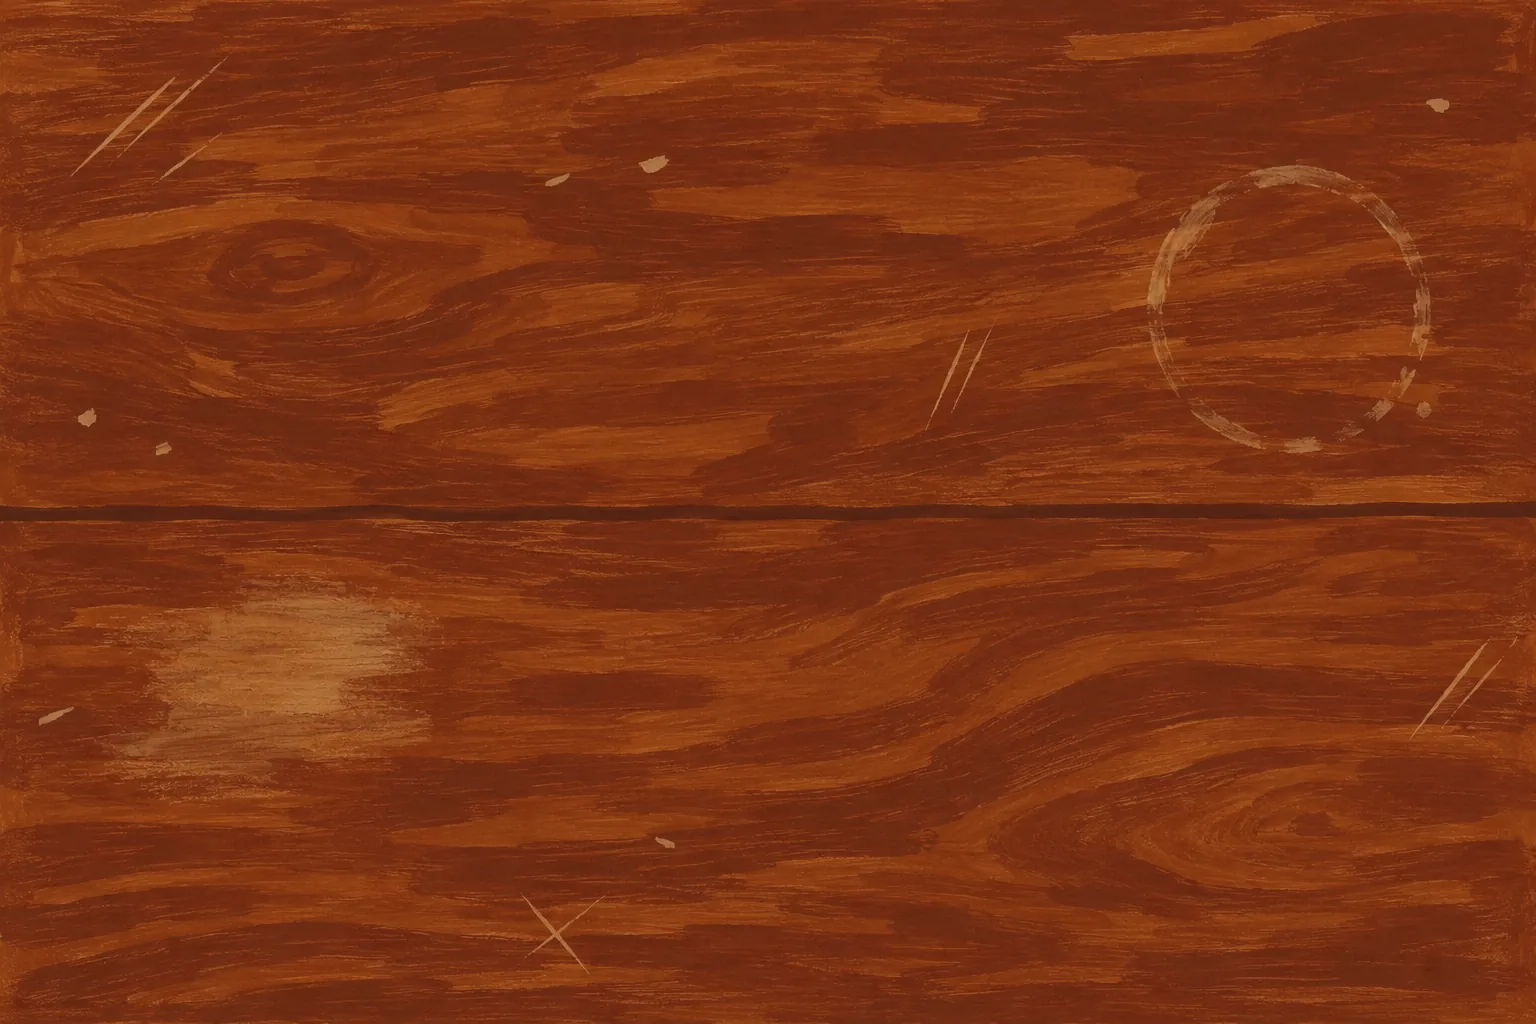
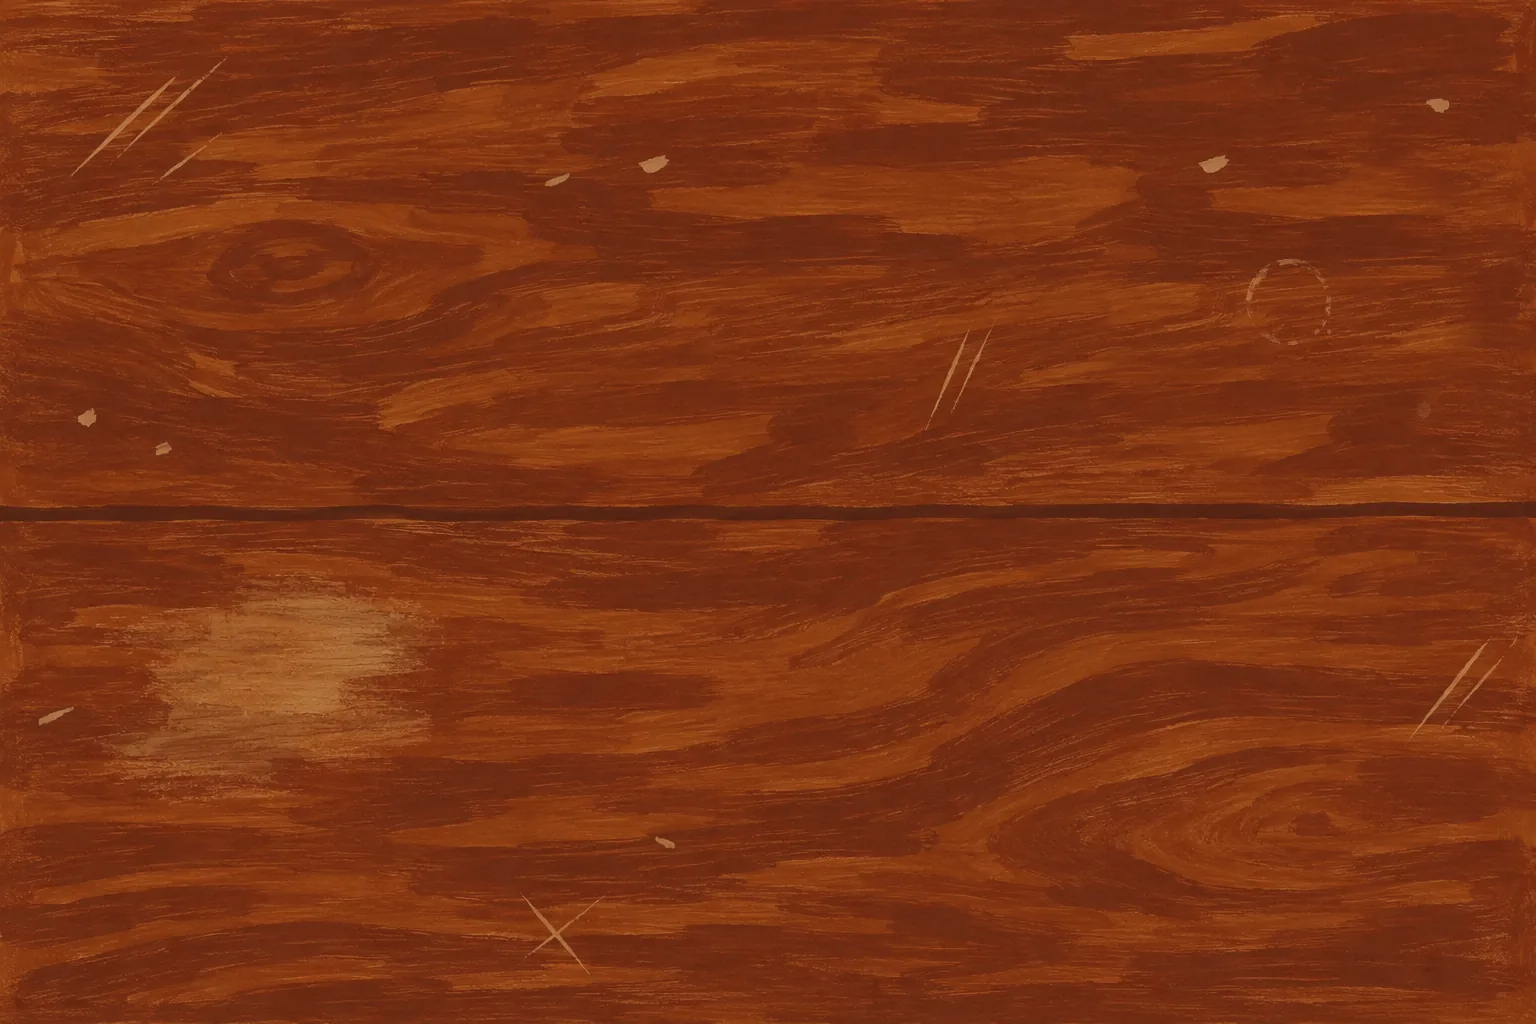
Long horizontal cutting mat, mat-length ruler, smaller coffee ring
New panoramic mat (shown at 2.6:1, upright on phones), ruler straightened and
stretched to ~90% of the mat's length, table's cup ring shrunk to 30% so it
reads smaller than the iced coffee; props re-laid out on the mat.

Claude-Session: https://claude.ai/code/session_01LGMYZrrSTaEhzWPwz3UXtF

Changed region(s): [[0.7188, 0.1562, 0.9688, 0.4062], [0.7812, 0.4062, 0.875, 0.4375]]

diff --git a/index.html b/index.html
@@ -299,13 +299,16 @@ dl.cred dd{margin:0;font-size:calc(var(--u)*2.2)}
 .desk-scene{position:fixed;inset:0;z-index:950;pointer-events:none;overflow:hidden;transition:opacity .5s}
 .desk-scene[hidden]{display:none}
 .desk-scene.hiding{opacity:0}
-.desk-scene{background:#7A4A2A url(desk/table.webp) center/cover no-repeat}
+.desk-scene{background:#7A4A2A url(desk/table.webp) center/cover no-repeat;--matw:min(94vw,236vh);--math:calc(var(--matw) / 2.6)}
 .desk-hint{position:absolute;top:max(18px,env(safe-area-inset-top,0px));left:50%;transform:translateX(-50%) rotate(-1.5deg);
   font-family:var(--mono);font-weight:700;font-size:11px;letter-spacing:.12em;text-transform:uppercase;color:var(--ink);
   background:var(--yellow);border-radius:999px;
   padding:8px 16px;white-space:nowrap;z-index:30;pointer-events:none}
 .desk-fixed{position:absolute;pointer-events:none}
-.desk-fixed.mat{width:var(--w);transform:translate(-50%,-50%) rotate(var(--r,0deg));filter:drop-shadow(8px 10px 0 rgba(30,14,6,.35))}
+.desk-fixed.mat{width:var(--matw);height:var(--math);transform:translate(-50%,-50%) rotate(var(--r,0deg));filter:drop-shadow(8px 10px 0 rgba(30,14,6,.35))}
+.desk-scene .desk-fixed.mat img{width:100%;height:100%;object-fit:fill}
+.desk-item.ruler{--r:-1deg;width:calc(var(--matw) * .9);height:calc(var(--math) * .14);left:calc(50% - var(--matw) * .45);top:calc(50% + var(--math) * .5 - var(--math) * .2)}
+.desk-scene .desk-item.ruler img{height:100%;object-fit:fill}
 .desk-fixed img,.desk-item img{display:block;width:100%;height:auto;pointer-events:none;user-select:none;-webkit-user-drag:none}
 .desk-item{position:absolute;left:var(--x);top:var(--y);width:var(--w);transform:translate(var(--dx,0px),var(--dy,0px)) rotate(var(--r,0deg));
   cursor:grab;pointer-events:auto;touch-action:none;filter:drop-shadow(6px 8px 0 rgba(30,14,6,.32));
@@ -313,7 +316,9 @@ dl.cred dd{margin:0;font-size:calc(var(--u)*2.2)}
 .desk-item.dragging{cursor:grabbing;filter:drop-shadow(12px 18px 0 rgba(30,14,6,.28))}
 @media not all and (min-width:900px) and (min-height:560px){
   .desk-item{left:var(--mx,var(--x));top:var(--my,var(--y));width:calc(var(--w) * .78)}
-  .desk-fixed.mat{width:min(88vh,136vw);transform:translate(-50%,-50%) rotate(90deg)}
+  .desk-scene{--matw:min(88vh,234vw)}
+  .desk-fixed.mat{transform:translate(-50%,-50%) rotate(90deg)}
+  .desk-scene .desk-item.ruler{--r:90deg;width:calc(var(--matw) * .9);left:calc(50% - var(--matw) * .45);top:calc(50% - var(--math) * .07 - 0px);margin-left:calc(var(--math) * -.33)}
   .desk-hint{font-size:9.5px;padding:6px 12px;white-space:normal;text-align:center;width:80vw}
 }
 </style>
@@ -626,21 +631,21 @@ dl.cred dd{margin:0;font-size:calc(var(--u)*2.2)}
 
 <div class="desk-scene" id="deskScene">
   <p class="desk-hint">My desk, mid-recipe &mdash; move things aside, then open the book</p>
-  <div class="desk-fixed mat" style="left:50%;top:50%;--w:min(94vw,137vh);--r:-1deg" aria-hidden="true"><img src="desk/mat.webp" alt="" draggable="false"></div>
-  <div class="desk-item" style="--x:18%;--y:22%;--mx:8%;--my:33%;--w:clamp(110px,12vw,170px);--r:-11deg;z-index:2" aria-hidden="true"><img src="desk/paper.webp" alt="" draggable="false"></div>
-  <div class="desk-item" style="--x:8%;--y:42%;--mx:5%;--my:52%;--w:clamp(110px,12vw,170px);--r:-9deg;z-index:3" aria-hidden="true"><img src="desk/sketchbook.webp" alt="" draggable="false"></div>
-  <div class="desk-item" style="--x:60%;--y:55%;--mx:45%;--my:62%;--w:clamp(130px,15vw,200px);--r:5deg;z-index:4" aria-hidden="true"><img src="desk/pad.webp" alt="" draggable="false"></div>
-  <div class="desk-item" style="--x:17%;--y:60%;--mx:8%;--my:66%;--w:clamp(140px,16vw,220px);--r:0deg;z-index:5" aria-hidden="true"><img src="desk/ruler.webp" alt="" draggable="false"></div>
-  <div class="desk-item" data-book="1" style="--x:41%;--y:30%;--mx:30%;--my:40%;--w:clamp(170px,19vw,250px);--r:4deg;z-index:6" role="button" tabindex="0" aria-label="Open the recipe book"><img src="desk/book.webp" alt="" draggable="false"></div>
-  <div class="desk-item" style="--x:75%;--y:48%;--mx:70%;--my:56%;--w:clamp(70px,7vw,100px);--r:70deg;z-index:7" aria-hidden="true"><img src="desk/pencils.webp" alt="" draggable="false"></div>
-  <div class="desk-item" style="--x:46%;--y:45%;--mx:46%;--my:50%;--w:clamp(90px,10vw,140px);--r:8deg;z-index:8" aria-hidden="true"><img src="desk/knife.webp" alt="" draggable="false"></div>
-  <div class="desk-item" style="--x:82%;--y:66%;--mx:74%;--my:70%;--w:clamp(80px,8vw,115px);--r:0deg;z-index:9" aria-hidden="true"><img src="desk/glass.webp" alt="" draggable="false"></div>
-  <div class="desk-item" style="--x:81%;--y:33%;--mx:72%;--my:43%;--w:clamp(90px,9vw,125px);--r:-6deg;z-index:10" aria-hidden="true"><img src="desk/coffee.webp" alt="" draggable="false"></div>
-  <div class="desk-item" style="--x:74%;--y:8%;--mx:68%;--my:19%;--w:clamp(130px,13vw,180px);--r:0deg;z-index:11" aria-hidden="true"><img src="desk/cereal.webp" alt="" draggable="false"></div>
-  <div class="desk-item" style="--x:52%;--y:8%;--mx:50%;--my:19%;--w:clamp(80px,8vw,115px);--r:-20deg;z-index:12" aria-hidden="true"><img src="desk/earphones.webp" alt="" draggable="false"></div>
-  <div class="desk-item" style="--x:8%;--y:8%;--mx:5%;--my:19%;--w:clamp(130px,14vw,190px);--r:-7deg;z-index:13" aria-hidden="true"><img src="desk/ipad.webp" alt="" draggable="false"></div>
-  <div class="desk-item" style="--x:61%;--y:15%;--mx:56%;--my:30%;--w:clamp(120px,12vw,170px);--r:9deg;z-index:14" aria-hidden="true"><img src="desk/camera.webp" alt="" draggable="false"></div>
-  <div class="desk-item" style="--x:29%;--y:10%;--mx:33%;--my:20%;--w:clamp(65px,6.5vw,95px);--r:13deg;z-index:15" aria-hidden="true"><img src="desk/phone.webp" alt="" draggable="false"></div>
+  <div class="desk-fixed mat" style="left:50%;top:50%;--r:-1deg" aria-hidden="true"><img src="desk/mat.webp" alt="" draggable="false"></div>
+  <div class="desk-item" style="--x:17%;--y:42%;--mx:34%;--my:30%;--w:clamp(95px,10vw,145px);--r:-11deg;z-index:2" aria-hidden="true"><img src="desk/paper.webp" alt="" draggable="false"></div>
+  <div class="desk-item" style="--x:6%;--y:46%;--mx:34%;--my:73%;--w:clamp(95px,10vw,145px);--r:-9deg;z-index:3" aria-hidden="true"><img src="desk/sketchbook.webp" alt="" draggable="false"></div>
+  <div class="desk-item" style="--x:57%;--y:42%;--mx:52%;--my:58%;--w:clamp(110px,11vw,160px);--r:5deg;z-index:4" aria-hidden="true"><img src="desk/pad.webp" alt="" draggable="false"></div>
+  <div class="desk-item ruler" style="z-index:5" aria-hidden="true"><img src="desk/ruler.webp" alt="" draggable="false"></div>
+  <div class="desk-item" data-book="1" style="--x:38%;--y:25%;--mx:34%;--my:40%;--w:clamp(150px,15vw,220px);--r:4deg;z-index:6" role="button" tabindex="0" aria-label="Open the recipe book"><img src="desk/book.webp" alt="" draggable="false"></div>
+  <div class="desk-item" style="--x:72%;--y:52%;--mx:66%;--my:48%;--w:clamp(60px,6vw,90px);--r:70deg;z-index:7" aria-hidden="true"><img src="desk/pencils.webp" alt="" draggable="false"></div>
+  <div class="desk-item" style="--x:44%;--y:42%;--mx:46%;--my:53%;--w:clamp(80px,8vw,120px);--r:8deg;z-index:8" aria-hidden="true"><img src="desk/knife.webp" alt="" draggable="false"></div>
+  <div class="desk-item" style="--x:85%;--y:50%;--mx:72%;--my:84%;--w:clamp(70px,6.5vw,100px);--r:0deg;z-index:9" aria-hidden="true"><img src="desk/glass.webp" alt="" draggable="false"></div>
+  <div class="desk-item" style="--x:83%;--y:24%;--mx:64%;--my:36%;--w:clamp(80px,7.5vw,110px);--r:-6deg;z-index:10" aria-hidden="true"><img src="desk/coffee.webp" alt="" draggable="false"></div>
+  <div class="desk-item" style="--x:70%;--y:24%;--mx:50%;--my:22%;--w:clamp(110px,10vw,150px);--r:0deg;z-index:11" aria-hidden="true"><img src="desk/cereal.webp" alt="" draggable="false"></div>
+  <div class="desk-item" style="--x:28%;--y:48%;--mx:66%;--my:9%;--w:clamp(70px,6.5vw,100px);--r:-20deg;z-index:12" aria-hidden="true"><img src="desk/earphones.webp" alt="" draggable="false"></div>
+  <div class="desk-item" style="--x:5%;--y:24%;--mx:14%;--my:8%;--w:clamp(110px,11vw,165px);--r:-7deg;z-index:13" aria-hidden="true"><img src="desk/ipad.webp" alt="" draggable="false"></div>
+  <div class="desk-item" style="--x:56%;--y:24%;--mx:14%;--my:24%;--w:clamp(105px,10vw,150px);--r:9deg;z-index:14" aria-hidden="true"><img src="desk/camera.webp" alt="" draggable="false"></div>
+  <div class="desk-item" style="--x:19%;--y:24%;--mx:50%;--my:8%;--w:clamp(60px,5.5vw,85px);--r:13deg;z-index:15" aria-hidden="true"><img src="desk/phone.webp" alt="" draggable="false"></div>
 </div>
 
 <footer class="ftr" aria-hidden="true">
